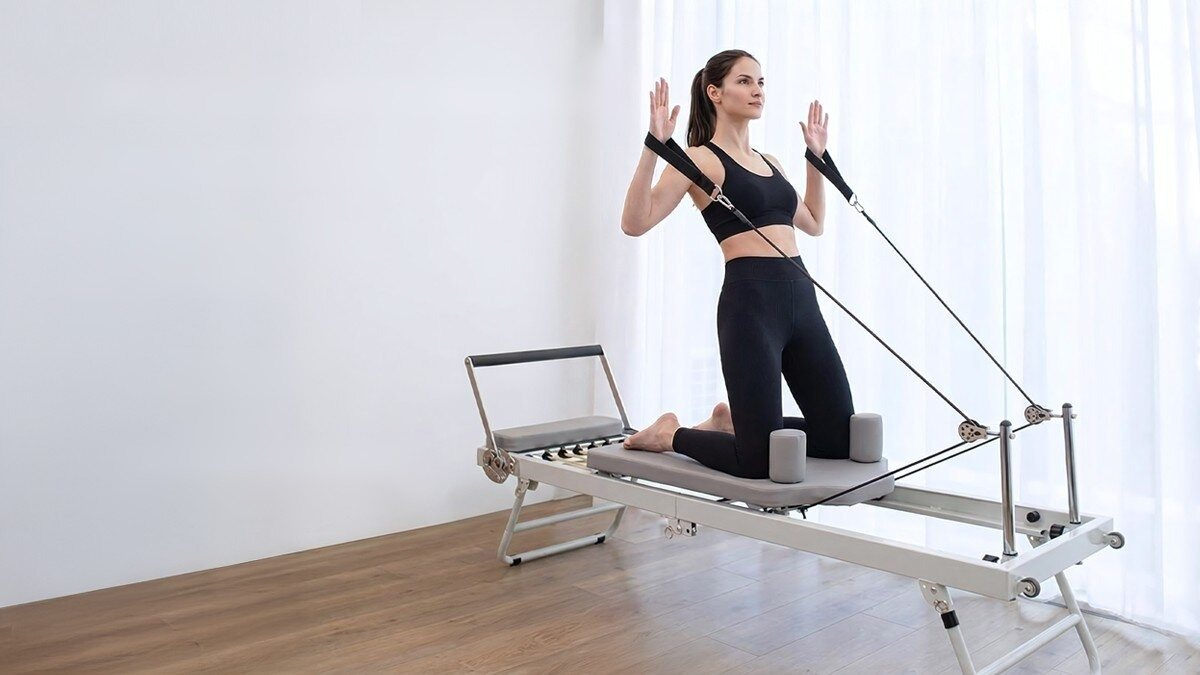
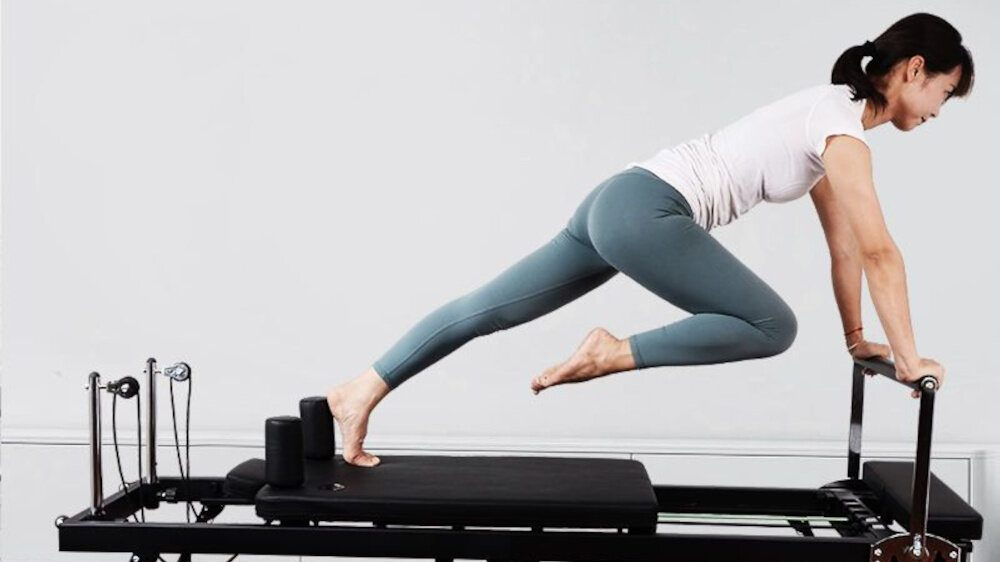
Reformer Classic: karta sprzętu z galerią i parametrami, nowe zdjęcia, wybór modelu w formularzu
Claude-Session: https://claude.ai/code/session_01LPTEKRniELDoKaqYY6xTf3

diff --git a/index.html b/index.html
@@ -88,7 +88,7 @@ header .btn{padding:10px 18px;min-height:0;font-size:.9rem;box-shadow:none}
 .cmp.win ul{color:var(--ink)}
 /* benefits */
 .benefits{display:grid;gap:26px;align-items:center}
-.benefits .photo{aspect-ratio:16/9}
+.benefits .photo{aspect-ratio:1000/717}
 .bgrid{display:grid;grid-template-columns:1fr 1fr;gap:12px}
 .b{background:var(--card);border:1px solid var(--line);border-radius:18px;padding:16px}
 .b .i{font-size:1.5rem}
@@ -174,6 +174,27 @@ footer{padding:30px 0 20px;color:var(--muted);font-size:.88rem;text-align:center
 .bar.hide{transform:translateY(110%)}
 [data-tel-only]{display:none}
 .has-tel [data-tel-only]{display:inline-flex}
+/* modele */
+.models{display:grid;gap:20px;max-width:980px;margin:0 auto}
+.model{padding:0;overflow:hidden;display:grid}
+.gal{position:relative;background:#fff}
+.gal-track{display:flex;overflow-x:auto;scroll-snap-type:x mandatory;scrollbar-width:none;aspect-ratio:4/3}
+.gal-track::-webkit-scrollbar{display:none}
+.gal-track img{flex:0 0 100%;width:100%;height:100%;object-fit:contain;scroll-snap-align:center;background:#fff}
+.gal-btn{position:absolute;top:50%;transform:translateY(-50%);width:40px;height:40px;border-radius:50%;border:0;background:rgba(255,253,249,.92);color:var(--ink);font-size:1.6rem;line-height:1;cursor:pointer;box-shadow:0 4px 14px rgba(0,0,0,.12)}
+.gal-btn.prev{left:10px}.gal-btn.next{right:10px}
+.gal-dots{position:absolute;left:0;right:0;bottom:10px;display:flex;justify-content:center;gap:6px}
+.gal-dots i{width:8px;height:8px;border-radius:50%;background:rgba(59,42,36,.25)}
+.gal-dots i.on{background:var(--accent)}
+.model-body{padding:22px}
+.model-body h3{font-family:Fraunces,serif;font-size:1.7rem;margin:8px 0 4px;font-weight:600}
+.model-price{margin:0 0 16px;color:var(--muted)}.model-price b{color:var(--accent-dark);font-size:1.15rem}
+.specs{list-style:none;padding:0;margin:0 0 20px;display:grid;grid-template-columns:1fr 1fr;gap:10px}
+.specs li{background:var(--soft);border-radius:14px;padding:10px 12px;line-height:1.3}
+.specs b{display:block;font-size:.98rem}.specs span{color:var(--muted);font-size:.82rem}
+.model .btn{width:100%}
+.model .tag{position:static;display:inline-block;transform:none}
+@media (min-width:860px){.model{grid-template-columns:1.1fr 1fr}.gal-track{height:100%;aspect-ratio:auto;min-height:460px}.model-body{padding:30px}}
 @media (min-width:860px){
  body{padding-bottom:0;font-size:17px}
  .bar{display:none}
@@ -197,14 +218,14 @@ footer{padding:30px 0 20px;color:var(--muted);font-size:.88rem;text-align:center
 <body>
 <header><div class="wrap">
  <a class="logo" href="#"><img src="logo-znak.png" alt="" width="40" height="30"><b>Pilates <span>w Domu</span></b></a>
- <nav><a class="navlink desk" href="/poradnik/">Poradnik</a><a class="navlink" href="#cennik" data-track="nav-cennik">Cennik</a>
+ <nav><a class="navlink desk" href="/poradnik/">Poradnik</a><a class="navlink desk" href="#sprzet" data-track="nav-sprzet">Sprzęt</a><a class="navlink" href="#cennik" data-track="nav-cennik">Cennik</a>
  <a class="btn" href="#rezerwacja" data-track="nav-rezerwuj">Zarezerwuj</a></nav>
 </div></header>
 
 <main>
 <!-- 1. HERO -->
 <div class="wrap hero">
- <div class="photo"><img src="foto-hero.jpg" alt="Kobieta ćwiczy pilates na reformerze w jasnym salonie" width="1200" height="675" fetchpriority="high"></div>
+ <div class="photo"><img src="foto-hero.jpg" alt="Kobieta ćwiczy pilates na reformerze Classic" width="1000" height="562" fetchpriority="high"></div>
  <div class="txt">
   <span class="eyebrow">Wynajem reformerów · Kraków</span>
   <h1>Pilates na reformerze, <em>w Twoim salonie</em></h1>
@@ -249,7 +270,7 @@ footer{padding:30px 0 20px;color:var(--muted);font-size:.88rem;text-align:center
 <!-- 4. KORZYŚCI -->
 <section style="background:var(--soft)">
  <div class="wrap benefits">
-  <div class="photo"><img src="foto-wygoda.jpg" alt="Ćwiczenia na reformerze w domu" width="1200" height="675" loading="lazy"></div>
+  <div class="photo"><img src="foto-wygoda.jpg" alt="Różne ćwiczenia na reformerze w domu" width="1000" height="717" loading="lazy"></div>
   <div>
    <span class="eyebrow">Wygoda studia w Twoim salonie</span>
    <h2>Ćwicz, kiedy masz ochotę</h2>
@@ -260,6 +281,49 @@ footer{padding:30px 0 20px;color:var(--muted);font-size:.88rem;text-align:center
     <div class="b"><span class="i">🔁</span><b>Łatwe przedłużenie</b><span>Spodobało się? Zostaje u Ciebie dłużej.</span></div>
     <div class="b"><span class="i">💛</span><b>Bez kupowania</b><span>Żadnych kredytów ani sprzedawania sprzętu potem.</span></div>
    </div>
+  </div>
+ </div>
+</section>
+
+<!-- SPRZĘT -->
+<section id="sprzet" style="background:var(--soft)">
+ <div class="wrap">
+  <div class="center">
+   <span class="eyebrow">Nasze reformery</span>
+   <h2>Wybierz swój reformer</h2>
+   <p class="lead">Prawdziwy sprzęt jak w studiu: wózek na szynach, sprężyny i linki do ćwiczeń rąk i nóg. Każdy egzemplarz czyścimy i sprawdzamy przed dostawą.</p>
+  </div>
+  <div class="models">
+   <article class="card model">
+    <div class="gal" aria-label="Zdjęcia reformera Classic">
+     <div class="gal-track">
+      <img src="classic-1.jpg" alt="Reformer Classic" width="1000" height="700" loading="lazy">
+      <img src="classic-2.jpg" alt="Ćwiczenie podporu na reformerze Classic" width="1000" height="634" loading="lazy">
+      <img src="classic-3.jpg" alt="Ćwiczenie z linkami na reformerze Classic" width="933" height="700" loading="lazy">
+      <img src="classic-4.jpg" alt="Reformer Classic w salonie" width="1000" height="566" loading="lazy">
+      <img src="classic-5.jpg" alt="Złożony reformer Classic stoi przy ścianie" width="1000" height="899" loading="lazy">
+     </div>
+     <button class="gal-btn prev" type="button" aria-label="Poprzednie zdjęcie">‹</button>
+     <button class="gal-btn next" type="button" aria-label="Następne zdjęcie">›</button>
+     <div class="gal-dots"></div>
+    </div>
+    <div class="model-body">
+     <span class="tag soft">Na start</span>
+     <h3>Reformer Classic</h3>
+     <p class="model-price">od <b>200 zł</b> / 2 tygodnie · <b>350 zł</b> / miesiąc</p>
+     <ul class="specs">
+      <li><b>196 × 57 × 73 cm</b><span>wymiary</span></li>
+      <li><b>składany</b><span>do ok. 106 × 57 × 24 cm, stoi przy ścianie</span></li>
+      <li><b>5 sprężyn</b><span>regulowany opór</span></li>
+      <li><b>do 120 kg</b><span>maks. waga ćwiczącej osoby</span></li>
+      <li><b>73 cm</b><span>przesuw wózka</span></li>
+      <li><b>4 pozycje</b><span>drążka na stopy, zagłówek 2 pozycje</span></li>
+      <li><b>stalowa rama</b><span>tapicerka PU, łatwa do przetarcia</span></li>
+      <li><b>32,5 kg</b><span>waga, przenosimy i montujemy my</span></li>
+     </ul>
+     <a class="btn" href="#rezerwacja" data-model="Reformer Classic" data-track="model-classic">Wybieram Classic</a>
+    </div>
+   </article>
   </div>
  </div>
 </section>
@@ -327,19 +391,6 @@ footer{padding:30px 0 20px;color:var(--muted);font-size:.88rem;text-align:center
  </div>
 </section>
 
-<!-- 8. SPRZĘT -->
-<section style="background:var(--soft)">
- <div class="wrap product">
-  <div class="photo"><img src="reformer.jpg" alt="Reformer do pilatesu Extralink Lifestyle PB1001" width="1200" height="613" loading="lazy"></div>
-  <div>
-   <span class="eyebrow">Sprzęt</span>
-   <h2>Prawdziwy reformer, nie zabawka</h2>
-   <p class="lead">Ten sam typ sprzętu co w studiach pilatesu: wózek na szynach, regulowane sprężyny i linki do ćwiczeń rąk i nóg. Model Extralink Lifestyle PB1001.</p>
-   <p class="lead" style="margin:0">Każdy egzemplarz czyścimy i sprawdzamy przed dostawą.</p>
-  </div>
- </div>
-</section>
-
 <!-- 9. REZERWACJA -->
 <section id="rezerwacja">
  <div class="wrap">
@@ -360,6 +411,10 @@ footer{padding:30px 0 20px;color:var(--muted);font-size:.88rem;text-align:center
     <input type="hidden" name="from_name" value="Pilates w Domu Kraków">
     <input type="hidden" name="redirect" value="https://pilateswdomukrk.pl/dziekujemy.html">
     <input type="checkbox" name="botcheck" class="hp" tabindex="-1" autocomplete="off">
+    <div><label for="model">Reformer</label>
+     <select id="model" name="reformer" required>
+      <option>Reformer Classic</option>
+     </select></div>
     <div><label for="pakiet">Pakiet</label>
      <select id="pakiet" name="okres" required>
       <option>Test 2 tygodnie – 200 zł</option>
@@ -493,6 +548,19 @@ document.querySelectorAll('[data-track]').forEach(function(el){
   document.body.appendChild(sc);
  });
 })();
+// Wybór modelu reformera
+document.querySelectorAll('[data-model]').forEach(function(a){a.addEventListener('click',function(){var s=document.getElementById('model');if(s)s.value=a.getAttribute('data-model');});});
+// Galerie zdjęć
+document.querySelectorAll('.gal').forEach(function(g){
+ var t=g.querySelector('.gal-track'),imgs=t.querySelectorAll('img'),d=g.querySelector('.gal-dots');
+ imgs.forEach(function(){d.appendChild(document.createElement('i'));});
+ function idx(){return Math.round(t.scrollLeft/t.clientWidth);}
+ function upd(){var i=idx();d.querySelectorAll('i').forEach(function(x,k){x.className=k===i?'on':'';});}
+ function go(n){var i=(idx()+n+imgs.length)%imgs.length;t.scrollTo({left:i*t.clientWidth,behavior:'smooth'});}
+ g.querySelector('.prev').addEventListener('click',function(){go(-1);});
+ g.querySelector('.next').addEventListener('click',function(){go(1);});
+ t.addEventListener('scroll',upd,{passive:true});upd();
+});
 // Przyciski w cenniku od razu wybierają pakiet
 document.querySelectorAll('[data-pakiet]').forEach(function(a){a.addEventListener('click',function(){var s=document.getElementById('pakiet');if(s)s.value=a.getAttribute('data-pakiet');});});
 // Kalendarz dostępności
